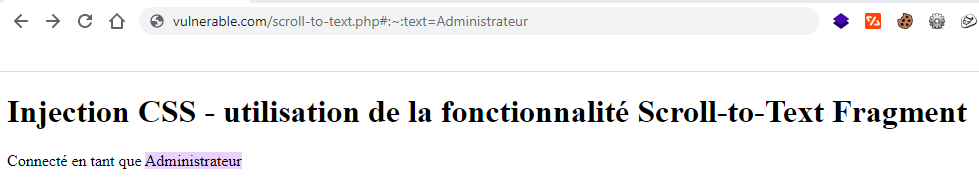
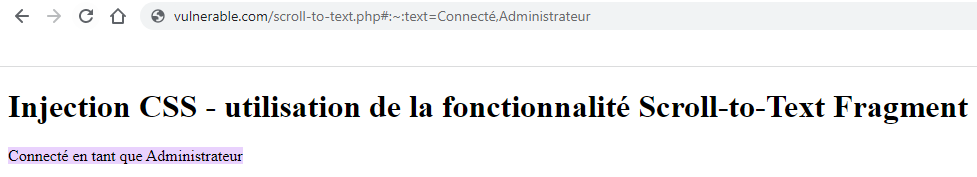
GitBook: [#308] No subject

diff --git a/mon-blog/README.md b/mon-blog/README.md
@@ -1,35 +1,31 @@
 # 📦 Archives
 
-## 2022
+## <mark style="background-color:green;">2022</mark>
 
-#### Décembre
+### <mark style="background-color:blue;">Décembre</mark>
 
-[les-injections-css-partie-3.md](2022/decembre/les-injections-css-partie-3.md "mention")
+* **15 Déc -** <mark style="color:blue;"></mark> [les-injections-css-partie-3.md](2022/decembre/les-injections-css-partie-3.md "mention")
+* **16 Déc** - [les-injections-css-partie-4.md](2022/decembre/les-injections-css-partie-4.md "mention")
 
-[les-injections-css-partie-4.md](2022/decembre/les-injections-css-partie-4.md "mention")
+### <mark style="background-color:blue;">Novembre</mark>
 
-#### Novembre
+* **06 Nov** - [les-injections-css-partie-1.md](2022/novembre/les-injections-css-partie-1.md "mention")****
+* **20 Nov** - [les-injections-css-partie-2.md](2022/novembre/les-injections-css-partie-2.md "mention")
 
-[les-injections-css-partie-1.md](2022/novembre/les-injections-css-partie-1.md "mention")
+### <mark style="background-color:blue;">Octobre</mark>
 
-[les-injections-css-partie-2.md](2022/novembre/les-injections-css-partie-2.md "mention")
+* **26 Oct** - [xss-exploitation-tool-v0.4.0.md](2022/octobre/xss-exploitation-tool-v0.4.0.md "mention")
 
-#### Octobre
+### <mark style="background-color:blue;">Septembre</mark>
 
-[xss-exploitation-tool-v0.4.0.md](2022/octobre/xss-exploitation-tool-v0.4.0.md "mention")
+* **17 Sept** - [cross-site-scripting-xss-et-schema-duri-javascript.md](2022/septembre/cross-site-scripting-xss-et-schema-duri-javascript.md "mention")
 
-#### Septembre
+### <mark style="background-color:blue;">Aout</mark>
 
-[cross-site-scripting-xss-et-schema-duri-javascript.md](2022/septembre/cross-site-scripting-xss-et-schema-duri-javascript.md "mention")
+* **02 Août** - [xss-vulnerability-challenges](../walkthroughs/damn-vulnerable-web-application/xss-vulnerability-challenges/ "mention")
 
-#### Aout
+### <mark style="background-color:blue;">Juillet</mark>
 
-[xss-vulnerability-challenges](../walkthroughs/damn-vulnerable-web-application/xss-vulnerability-challenges/ "mention")
-
-#### Juillet
-
-[sast-php\_codesniffer-oriente-securite-integre-dans-visual-studio-sous-windows.md](2022/juillet/sast-php\_codesniffer-oriente-securite-integre-dans-visual-studio-sous-windows.md "mention")
-
-[sast-php\_codesniffer-oriente-securite-integre-dans-visual-studio-sous-debian-ubuntu.md](2022/juillet/sast-php\_codesniffer-oriente-securite-integre-dans-visual-studio-sous-debian-ubuntu.md "mention")
-
-[est-il-possible-de-contourner-la-fonction-php-htmlspecialchars.md](2022/juillet/est-il-possible-de-contourner-la-fonction-php-htmlspecialchars.md "mention")
+* **12 Juil** - [sast-php-codesniffer-oriente-securite-dans-visual-studio-sous-windows.md](../archives/2022/juillet/sast-php-codesniffer-oriente-securite-dans-visual-studio-sous-windows.md "mention")****
+* **18 Juil -** [sast-php-codesniffer-oriente-securite-dans-visual-studio-sous-debian.md](../archives/2022/juillet/sast-php-codesniffer-oriente-securite-dans-visual-studio-sous-debian.md "mention")****
+* **29 Juil** - [est-il-possible-de-contourner-la-fonction-php-htmlspecialchars.md](2022/juillet/est-il-possible-de-contourner-la-fonction-php-htmlspecialchars.md "mention")

diff --git a/mon-blog/2022/README.md b/mon-blog/2022/README.md
@@ -1,33 +1,29 @@
 # 2022
 
-#### Décembre
+### <mark style="background-color:blue;">Décembre</mark>
 
-[les-injections-css-partie-3.md](decembre/les-injections-css-partie-3.md "mention")
+* **15 Déc -** <mark style="color:blue;"></mark> [les-injections-css-partie-3.md](decembre/les-injections-css-partie-3.md "mention")
+* **16 Déc** - [les-injections-css-partie-4.md](decembre/les-injections-css-partie-4.md "mention")
 
-[les-injections-css-partie-4.md](decembre/les-injections-css-partie-4.md "mention")
+### <mark style="background-color:blue;">Novembre</mark>
 
-#### Novembre
+* **06 Nov** - [les-injections-css-partie-1.md](novembre/les-injections-css-partie-1.md "mention")****
+* **20 Nov** - [les-injections-css-partie-2.md](novembre/les-injections-css-partie-2.md "mention")
 
-[les-injections-css-partie-1.md](novembre/les-injections-css-partie-1.md "mention")
+### <mark style="background-color:blue;">Octobre</mark>
 
-[les-injections-css-partie-2.md](novembre/les-injections-css-partie-2.md "mention")
+* **26 Oct** - [xss-exploitation-tool-v0.4.0.md](octobre/xss-exploitation-tool-v0.4.0.md "mention")
 
-#### Octobre
+### <mark style="background-color:blue;">Septembre</mark>
 
-[xss-exploitation-tool-v0.4.0.md](octobre/xss-exploitation-tool-v0.4.0.md "mention")
+* **17 Sept** - [cross-site-scripting-xss-et-schema-duri-javascript.md](septembre/cross-site-scripting-xss-et-schema-duri-javascript.md "mention")
 
-#### Septembre
+### <mark style="background-color:blue;">Aout</mark>
 
-[cross-site-scripting-xss-et-schema-duri-javascript.md](septembre/cross-site-scripting-xss-et-schema-duri-javascript.md "mention")
+* **02 Août** - [xss-vulnerability-challenges](../../walkthroughs/damn-vulnerable-web-application/xss-vulnerability-challenges/ "mention")
 
-#### Aout
+### <mark style="background-color:blue;">Juillet</mark>
 
-[xss-vulnerability-challenges](../../walkthroughs/damn-vulnerable-web-application/xss-vulnerability-challenges/ "mention")
-
-#### Juillet
-
-[sast-php\_codesniffer-oriente-securite-integre-dans-visual-studio-sous-windows.md](juillet/sast-php\_codesniffer-oriente-securite-integre-dans-visual-studio-sous-windows.md "mention")
-
-[sast-php\_codesniffer-oriente-securite-integre-dans-visual-studio-sous-debian-ubuntu.md](juillet/sast-php\_codesniffer-oriente-securite-integre-dans-visual-studio-sous-debian-ubuntu.md "mention")
-
-[est-il-possible-de-contourner-la-fonction-php-htmlspecialchars.md](juillet/est-il-possible-de-contourner-la-fonction-php-htmlspecialchars.md "mention")
+* **12 Juil** - [sast-php-codesniffer-oriente-securite-dans-visual-studio-sous-windows.md](../../archives/2022/juillet/sast-php-codesniffer-oriente-securite-dans-visual-studio-sous-windows.md "mention")****
+* **18 Juil -** [sast-php-codesniffer-oriente-securite-dans-visual-studio-sous-debian.md](../../archives/2022/juillet/sast-php-codesniffer-oriente-securite-dans-visual-studio-sous-debian.md "mention")****
+* **29 Juil** - [est-il-possible-de-contourner-la-fonction-php-htmlspecialchars.md](juillet/est-il-possible-de-contourner-la-fonction-php-htmlspecialchars.md "mention")

diff --git a/mon-blog/2022/decembre/les-injections-css-partie-4.md b/mon-blog/2022/decembre/les-injections-css-partie-4.md
@@ -57,7 +57,7 @@ En reprenant le code de l'exemple précédent, il est donc possible de mettre en
 http://vulnerable.com/scroll-to-text.php#:~:text=Administrateur
 ```
 
-<figure><img src="../../../.gitbook/assets/image (3).png" alt=""><figcaption></figcaption></figure>
+<figure><img src="../../../.gitbook/assets/image (3) (2).png" alt=""><figcaption></figcaption></figure>
 
 Ou alors une phrase entière :&#x20;
 
@@ -65,7 +65,7 @@ Ou alors une phrase entière :&#x20;
 
 Il est également possible de surligner tout un paragraphe en spécifiant le texte du début (`textStart`) et le texte de fin (`textEnd`) séparés par une virgule :&#x20;
 
-<figure><img src="../../../.gitbook/assets/image.png" alt=""><figcaption></figcaption></figure>
+<figure><img src="../../../.gitbook/assets/image (3).png" alt=""><figcaption></figcaption></figure>
 
 Ou encore d'ajouter des suffixes et des préfixes :&#x20;
 
@@ -99,7 +99,7 @@ http://vulnerable.com/scroll-to-text.php?color=black;}:target::before{content:ur
 ```
 {% endcode %}
 
-<figure><img src="../../../.gitbook/assets/image (1).png" alt=""><figcaption></figcaption></figure>
+<figure><img src="../../../.gitbook/assets/image (1) (1).png" alt=""><figcaption></figcaption></figure>
 
 L'attaque ne passera pas inaperçu pour la victime puisque le texte ciblé sera souligné et un défilement sera effectué si nécessaire :&#x20;
 

diff --git a/SUMMARY.md b/SUMMARY.md
@@ -17,8 +17,8 @@
     * [Août](mon-blog/2022/aout/README.md)
       * [Walkthroughs - XSS Vulnerability Challenges](mon-blog/2022/aout/walkthroughs-xss-vulnerability-challenges.md)
     * [Juillet](mon-blog/2022/juillet/README.md)
-      * [SAST - PHP\_CodeSniffer orienté sécurité intégré dans Visual Studio (sous Windows)](mon-blog/2022/juillet/sast-php\_codesniffer-oriente-securite-integre-dans-visual-studio-sous-windows.md)
-      * [SAST - PHP\_CodeSniffer orienté sécurité intégré dans Visual Studio (sous Debian/Ubuntu)](mon-blog/2022/juillet/sast-php\_codesniffer-oriente-securite-integre-dans-visual-studio-sous-debian-ubuntu.md)
+      * [SAST - PHP CodeSniffer orienté sécurité dans Visual Studio (sous Windows)](archives/2022/juillet/sast-php-codesniffer-oriente-securite-dans-visual-studio-sous-windows.md)
+      * [SAST - PHP CodeSniffer orienté sécurité dans Visual Studio (sous Debian)](archives/2022/juillet/sast-php-codesniffer-oriente-securite-dans-visual-studio-sous-debian.md)
       * [Est-il possible de contourner la fonction PHP htmlspecialchars() ?](mon-blog/2022/juillet/est-il-possible-de-contourner-la-fonction-php-htmlspecialchars.md)
 
 ## Mes projets

diff --git a/mon-blog/2022/juillet/README.md b/mon-blog/2022/juillet/README.md
@@ -1,7 +1,5 @@
 # Juillet
 
-[sast-php\_codesniffer-oriente-securite-integre-dans-visual-studio-sous-windows.md](sast-php\_codesniffer-oriente-securite-integre-dans-visual-studio-sous-windows.md "mention")
-
-[sast-php\_codesniffer-oriente-securite-integre-dans-visual-studio-sous-debian-ubuntu.md](sast-php\_codesniffer-oriente-securite-integre-dans-visual-studio-sous-debian-ubuntu.md "mention")
-
-[est-il-possible-de-contourner-la-fonction-php-htmlspecialchars.md](est-il-possible-de-contourner-la-fonction-php-htmlspecialchars.md "mention")
+* **12 Juil** - [sast-php-codesniffer-oriente-securite-dans-visual-studio-sous-windows.md](../../../archives/2022/juillet/sast-php-codesniffer-oriente-securite-dans-visual-studio-sous-windows.md "mention")****
+* **18 Juil -** [sast-php-codesniffer-oriente-securite-dans-visual-studio-sous-debian.md](../../../archives/2022/juillet/sast-php-codesniffer-oriente-securite-dans-visual-studio-sous-debian.md "mention")****
+* **29 Juil** - [est-il-possible-de-contourner-la-fonction-php-htmlspecialchars.md](est-il-possible-de-contourner-la-fonction-php-htmlspecialchars.md "mention")

diff --git a/README.md b/README.md
@@ -1,7 +1,18 @@
 # 🏠 Home
 
+[les-injections-css-partie-4.md](mon-blog/2022/decembre/les-injections-css-partie-4.md "mention")
+
+Un attaquant peut s'appuyer sur la fonctionnalité de Scroll-to-Text Fragment afin d'exploiter une injection CSS dans l'objectif de connaitre la présence d'un mot ou d'une phrase dans la page Web de sa victime. Les scénarios d'utilisation sont très nombreux, mais il est possible de prendre le cas d'un attaquant souhaitant connaitre le rôle de la victime.
+
+:date: 16 Déc 2022 :open\_file\_folder:CSS Injection
+
+<figure><img src=".gitbook/assets/image (1).png" alt=""><figcaption></figcaption></figure>
+
 [les-injections-css-partie-3.md](mon-blog/2022/decembre/les-injections-css-partie-3.md "mention")
 
-todo
+La règle CSS `@import` permet de récupérer facilement la valeur d'un attribut HTML lors de l'exploitation d'une injection CSS.
 
 :date: 15 Déc 2022 :open\_file\_folder:CSS Injection
+
+<figure><img src=".gitbook/assets/image.png" alt=""><figcaption></figcaption></figure>
+

diff --git a/mon-blog/2022/novembre/les-injections-css-partie-1.md b/mon-blog/2022/novembre/les-injections-css-partie-1.md
@@ -289,7 +289,7 @@ Malheureusement, la technique précédente ne fonctionne pas sur les champs `<in
 ```
 {% endcode %}
 
-<figure><img src="../../../.gitbook/assets/image (1) (1).png" alt=""><figcaption></figcaption></figure>
+<figure><img src="../../../.gitbook/assets/image (1) (1) (3).png" alt=""><figcaption></figcaption></figure>
 
 Cela est en fait possible en utilisant les combinateurs `~` et `*` à la suite du sélecteur CSS :&#x20;
 
@@ -440,7 +440,7 @@ Voici plusieurs PoC tentant de résoudre ces problèmes.
 ```
 {% endcode %}
 
-<figure><img src="../../../.gitbook/assets/image (3) (2).png" alt=""><figcaption></figcaption></figure>
+<figure><img src="../../../.gitbook/assets/image (3) (2) (2).png" alt=""><figcaption></figcaption></figure>
 
 #### PoC - Récupération de la valeur d'un attribut d'un élément HTML via les Popups
 

diff --git a/mon-blog/2022/decembre/README.md b/mon-blog/2022/decembre/README.md
@@ -1,5 +1,4 @@
 # Décembre
 
-[les-injections-css-partie-3.md](les-injections-css-partie-3.md "mention")
-
-[les-injections-css-partie-4.md](les-injections-css-partie-4.md "mention")
+* **15 Déc -** <mark style="color:blue;"></mark> [les-injections-css-partie-3.md](les-injections-css-partie-3.md "mention")
+* **16 Déc** - [les-injections-css-partie-4.md](les-injections-css-partie-4.md "mention")

diff --git a/mon-blog/2022/novembre/README.md b/mon-blog/2022/novembre/README.md
@@ -1,5 +1,4 @@
 # Novembre
 
-[les-injections-css-partie-1.md](les-injections-css-partie-1.md "mention")
-
-[les-injections-css-partie-2.md](les-injections-css-partie-2.md "mention")
+* **06 Nov** - [les-injections-css-partie-1.md](les-injections-css-partie-1.md "mention")****
+* **20 Nov** - [les-injections-css-partie-2.md](les-injections-css-partie-2.md "mention")

diff --git a/mon-blog/2022/aout/README.md b/mon-blog/2022/aout/README.md
@@ -1,3 +1,3 @@
 # Août
 
-[xss-vulnerability-challenges](../../../walkthroughs/damn-vulnerable-web-application/xss-vulnerability-challenges/ "mention")
+* **02 Août** - [xss-vulnerability-challenges](../../../walkthroughs/damn-vulnerable-web-application/xss-vulnerability-challenges/ "mention")

diff --git a/mon-blog/2022/septembre/README.md b/mon-blog/2022/septembre/README.md
@@ -1,3 +1,3 @@
 # Septembre
 
-[cross-site-scripting-xss-et-schema-duri-javascript.md](cross-site-scripting-xss-et-schema-duri-javascript.md "mention")
+* **17 Sept** - [cross-site-scripting-xss-et-schema-duri-javascript.md](cross-site-scripting-xss-et-schema-duri-javascript.md "mention")

diff --git a/mon-blog/2022/octobre/README.md b/mon-blog/2022/octobre/README.md
@@ -1,3 +1,3 @@
 # Octobre
 
-[xss-exploitation-tool-v0.4.0.md](xss-exploitation-tool-v0.4.0.md "mention")
+* **26 Oct** - [xss-exploitation-tool-v0.4.0.md](xss-exploitation-tool-v0.4.0.md "mention")
